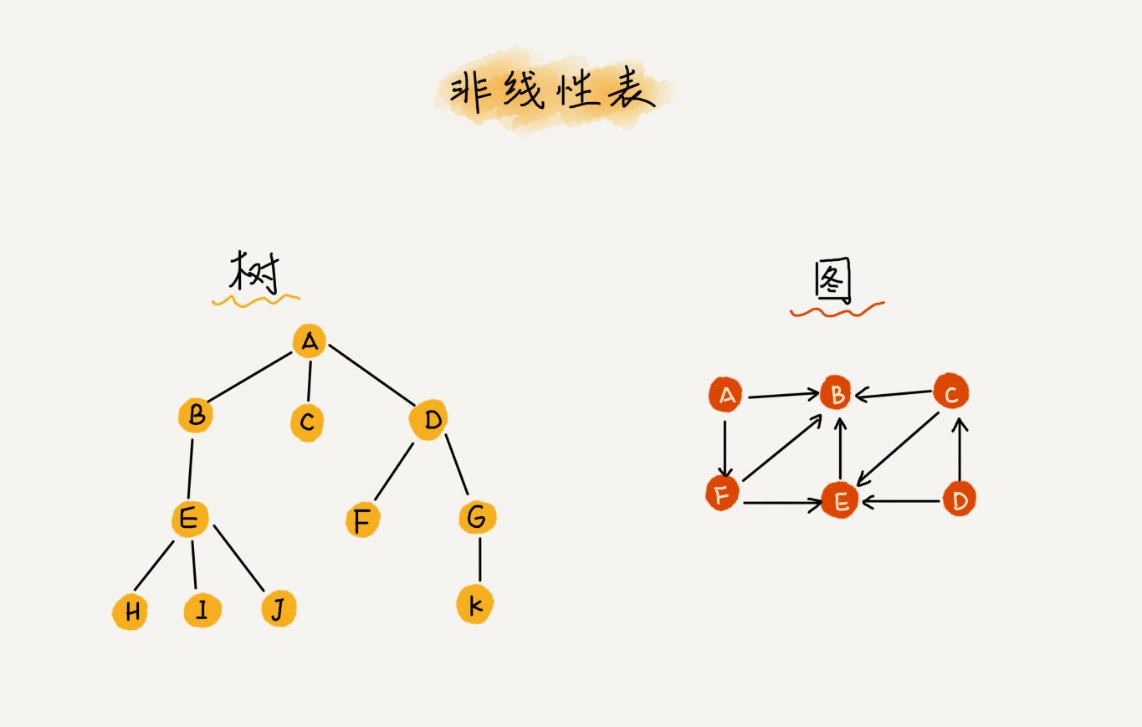
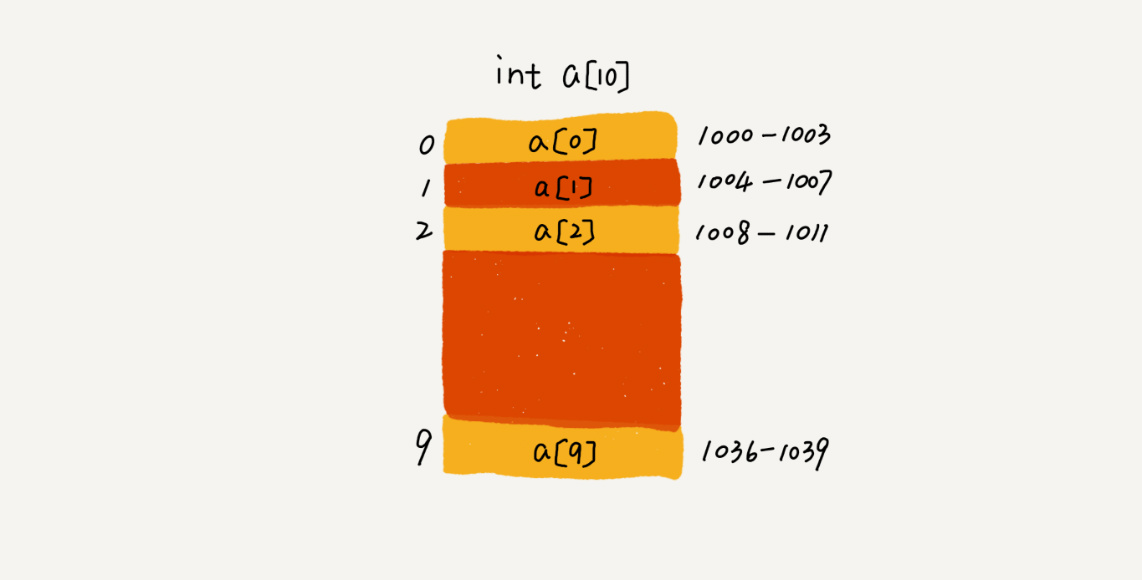
GitBook: [master] 4 pages and 6 assets modified

diff --git a/xian-xing-biao/ji-ben-gai-nian.md b/xian-xing-biao/ji-ben-gai-nian.md
@@ -6,11 +6,11 @@
 
 线性表可以是有序的也可以是无序的。
 
-![](../.gitbook/assets/image%20%2839%29.png)
+![](../.gitbook/assets/image%20%2840%29.png)
 
 与线性表对应的就是非线性表
 
-![](../.gitbook/assets/image%20%2838%29.png)
+![](../.gitbook/assets/image%20%2839%29.png)
 
 ## 逻辑特性
 
@@ -28,5 +28,84 @@
 
 ### 两种存储结构的比较
 
+因为数组可以通过下标位置进行访问，所以数组有一个关键特性就是---随机访问。数组是如何实现随机访问的呢？
 
+我们拿一个长度为 10 的 int 类型的数组 int\[\] a = new int\[10\]来举例。在我画的这个图中，计算机给数组 a\[10\]，分配了一块连续内存空间 1000～1039，其中，内存块的首地址为 base\_address = 1000。
+
+![](../.gitbook/assets/image%20%2838%29.png)
+
+我们知道，计算机会给每个内存单元分配一个地址，计算机通过地址来访问内存中的数据。当计算机需要随机访问数组中的某个元素时，它会首先通过下面的寻址公式，计算出该元素存储的内存地址：
+
+```c
+a[i]_address = base_address + i * data_type_size
+```
+
+其中 data\_type\_size 表示数组中每个元素的大小。我们举的这个例子里，数组中存储的是 int 类型数据，所以 data\_type\_size 就为 4 个字节。这个公式非常简单，我就不多做解释了。
+
+这里我要特别纠正一个“错误”。我在面试的时候，常常会问数组和链表的区别，很多人都回答说，“链表适合插入、删除，时间复杂度 O\(1\)；数组适合查找，查找时间复杂度为 O\(1\)”。
+
+实际上，这种表述是不准确的。数组是适合查找操作，但是查找的时间复杂度并不为 O\(1\)。即便是排好序的数组，你用二分查找，时间复杂度也是 O\(logn\)。所以，正确的表述应该是，数组支持随机访问，根据下标随机访问的时间复杂度为 O\(1\)。
+
+因为链表是根据指针进行连接，所以不支持随机访问，而且链表结点中要包含指针，所以链表的存储空间利用率较顺序表稍低一点。
+
+而且数组要求利用连续的存储空间，而链表的存储空间可以实现动态分配。
+
+### 数组的插入与删除
+
+数组为了保持内存数据的连续性，会导致插入、删除这两个操作比较低效。现在我们就来详细说一下，究竟为什么会导致低效？又有哪些改进方法呢？
+
+#### 插入操作
+
+假设数组的长度为 n，现在，如果我们需要将一个数据插入到数组中的第 k 个位置。为了把第 k 个位置腾出来，给新来的数据，我们需要将第 k～n 这部分的元素都顺序地往后挪一位。那插入操作的时间复杂度是多少呢？你可以自己先试着分析一下。
+
+如果在数组的末尾插入元素，那就不需要移动数据了，这时的时间复杂度为 O\(1\)。但如果在数组的开头插入元素，那所有的数据都需要依次往后移动一位，所以最坏时间复杂度是 O\(n\)。 因为我们在每个位置插入元素的概率是一样的，所以平均情况时间复杂度为 \(1+2+…n\)/n=O\(n\)。
+
+如果数组中的数据是有序的，我们在某个位置插入一个新的元素时，就必须按照刚才的方法搬移 k 之后的数据。但是，如果数组中存储的数据并没有任何规律，数组只是被当作一个存储数据的集合。在这种情况下，如果要将某个数据插入到第 k 个位置，**为了避免大规模的数据搬移，我们还有一个简单的办法就是，直接将第 k 位的数据搬移到数组元素的最后，把新的元素直接放入第 k 个位置。**
+
+为了更好地理解，我们举一个例子。假设数组 a\[10\]中存储了如下 5 个元素：a，b，c，d，e。
+
+我们现在需要将元素 x 插入到第 3 个位置。我们只需要将 c 放入到 a\[5\]，将 a\[2\]赋值为 x 即可。最后，数组中的元素如下： a，b，x，d，e，c。
+
+![](../.gitbook/assets/image%20%2843%29.png)
+
+利用这种处理技巧，在特定场景下，在第 k 个位置插入一个元素的时间复杂度就会降为 O\(1\)。这个处理思想在快排中也会用到，我会在排序那一节具体来讲，这里就说到这儿。
+
+#### 删除操作
+
+跟插入数据类似，如果我们要删除第 k 个位置的数据，为了内存的连续性，也需要搬移数据，不然中间就会出现空洞，内存就不连续了。
+
+和插入类似，如果删除数组末尾的数据，则最好情况时间复杂度为 O\(1\)；如果删除开头的数据，则最坏情况时间复杂度为 O\(n\)；平均情况时间复杂度也为 O\(n\)。
+
+**实际上，在某些特殊场景下，我们并不一定非得追求数组中数据的连续性。如果我们将多次删除操作集中在一起执行，删除的效率是不是会提高很多呢？**
+
+我们继续来看例子。数组 a\[10\]中存储了 8 个元素：a，b，c，d，e，f，g，h。现在，我们要依次删除 a，b，c 三个元素。
+
+![](../.gitbook/assets/image%20%2841%29.png)
+
+为了避免 d，e，f，g，h 这几个数据会被搬移三次，我们可以先记录下已经删除的数据。**每次的删除操作并不是真正地搬移数据，只是记录数据已经被删除。当数组没有更多空间存储数据时，我们再触发执行一次真正的删除操作，这样就大大减少了删除操作导致的数据搬移。**
+
+如果你了解 JVM，你会发现，**这不就是 JVM 标记清除垃圾回收算法的核心思想吗？**没错，数据结构和算法的魅力就在于此，很多时候我们并不是要去死记硬背某个数据结构或者算法，而是要学习它背后的思想和处理技巧，这些东西才是最有价值的。如果你细心留意，不管是在软件开发还是架构设计中，总能找到某些算法和数据结构的影子。
+
+### 容器能否完全替代数组？
+
+针对数组类型，很多语言都提供了容器类，比如 Java 中的 ArrayList、C++ STL 中的 vector。在项目开发中，什么时候适合用数组，什么时候适合用容器呢？
+
+这里我拿 Java 语言来举例。如果你是 Java 工程师，几乎天天都在用 ArrayList，对它应该非常熟悉。那它与数组相比，到底有哪些优势呢？
+
+我个人觉得，ArrayList 最大的优势就是可以将很多数组操作的细节封装起来。比如前面提到的数组插入、删除数据时需要搬移其他数据等。另外，它还有一个优势，就是支持动态扩容。
+
+数组本身在定义的时候需要预先指定大小，因为需要分配连续的内存空间。如果我们申请了大小为 10 的数组，当第 11 个数据需要存储到数组中时，我们就需要重新分配一块更大的空间，将原来的数据复制过去，然后再将新的数据插入。
+
+如果使用 ArrayList，我们就完全不需要关心底层的扩容逻辑，ArrayList 已经帮我们实现好了。每次存储空间不够的时候，它都会将空间自动扩容为 1.5 倍大小。
+
+不过，这里需要注意一点，因为扩容操作涉及内存申请和数据搬移，是比较耗时的。所以，如果事先能确定需要存储的数据大小，最好在创建 ArrayList 的时候事先指定数据大小。
+
+比如我们要从数据库中取出 10000 条数据放入 ArrayList。我们看下面这几行代码，你会发现，相比之下，事先指定数据大小可以省掉很多次内存申请和数据搬移操作。
+
+```c
+ArrayList<User> users = new ArrayList(10000);
+for (int i = 0; i < 10000; ++i) {
+  users.add(xxx);
+}
+```
 

diff --git a/xian-xing-biao/xian-xing-biao.md b/xian-xing-biao/xian-xing-biao.md
@@ -1,0 +1,129 @@
+# 线性表
+
+## 线性表的定义
+
+```go
+type ArrayList struct {
+	data   []int //存储数据
+	length int //线性表长度
+}
+```
+
+## 常用操作
+
+### 查找指定元素
+
+```go
+//找到元素返回下标, true，未找到返回-1, false
+func (list *ArrayList) FindElem(x int) (int, bool) {
+	for i := 0; i < list.length; i++ {
+		if list.data[i] == x {
+			return i, true
+		}
+	}
+	return -1, false
+}
+```
+
+### 查找指定位置的元素
+
+```go
+//获取指定位置的元素
+func (list *ArrayList) GetElem(p int) (int, bool) {
+	if p < 0 || p >= list.length{
+		return -1, false
+	}
+	return list.data[p], true
+}
+```
+
+### 快速插入元素
+
+```go
+//在线性表p位置插入元素e
+//将原位置元素先添加到线性表末尾
+//将新的元素插入的p的位置
+func (list *ArrayList) InsertElemFast(p int, e int) bool {
+	if p < 0 || p >= list.length {
+		return false
+	}
+	if p == list.length {
+		list.data = append(list.data, e)
+	} else {
+		temp := list.data[p]
+		list.data = append(list.data, temp)
+		list.data[p] = e
+	}
+	list.length = list.length + 1
+	return true
+}
+```
+
+### 插入元素
+
+```go
+//正常插入元素，将p位置元素依次向后移
+func (list *ArrayList) InsertElem(p int, e int) bool {
+	if p < 0 || p >= list.length {
+		return false
+	}
+	for i := list.length - 1; i >= p; i-- {
+		list.data[i+1] = list.data[i]
+	}
+	list.data[p] = e
+	list.length = list.length + 1
+	return true
+}
+```
+
+### 添加元素
+
+```go
+func (list *ArrayList) AppendElem(e int){
+	list.data = append(list.data, e)
+	list.length = list.length + 1
+}
+```
+
+### 删除指定元素
+
+```go
+//删除指定元素
+func (list *ArrayList) DeleteElem(e int) (int, bool) {
+	i, v := list.FindElem(e)
+	if v != false{
+		return list.DeleteElemByIndex(i)
+	}else{
+		return -1, false
+	}
+}
+```
+
+### 删除指定位置的元素
+
+```go
+//删除指定位置的元素
+func (list *ArrayList) DeleteElemByIndex(p int) (int, bool) {
+	if p < 0 || p >= list.length {
+		return -1, false
+	}
+	e := list.data[p]
+	for i := p; i < list.length-1; i++ {
+		list.data[i] = list.data[i+1]
+	}
+	list.length = list.length - 1
+	return e, true
+}
+```
+
+### 显示顺序表内容
+
+```go
+func (list *ArrayList) ShowList() {
+	for i := 0; i< list.length; i++{
+		fmt.Printf("%d ", list.data[i])
+	}
+	fmt.Println()
+}
+```
+

diff --git a/shu/er-cha-shu/chang-jian-suan-fa/er-cha-shu-zhong-he-wei-mou-yi-zhi-de-lu-jing.md b/shu/er-cha-shu/chang-jian-suan-fa/er-cha-shu-zhong-he-wei-mou-yi-zhi-de-lu-jing.md
@@ -6,7 +6,7 @@
 
 示例: 给定如下二叉树，以及目标和 `sum = 22`，
 
-![](../../../.gitbook/assets/image%20%2840%29.png)
+![](../../../.gitbook/assets/image%20%2842%29.png)
 
 返回:
 

diff --git a/SUMMARY.md b/SUMMARY.md
@@ -8,6 +8,7 @@
 ## 线性表
 
 * [基本概念](xian-xing-biao/ji-ben-gai-nian.md)
+* [线性表](xian-xing-biao/xian-xing-biao.md)
 
 ## 栈和队列
 
